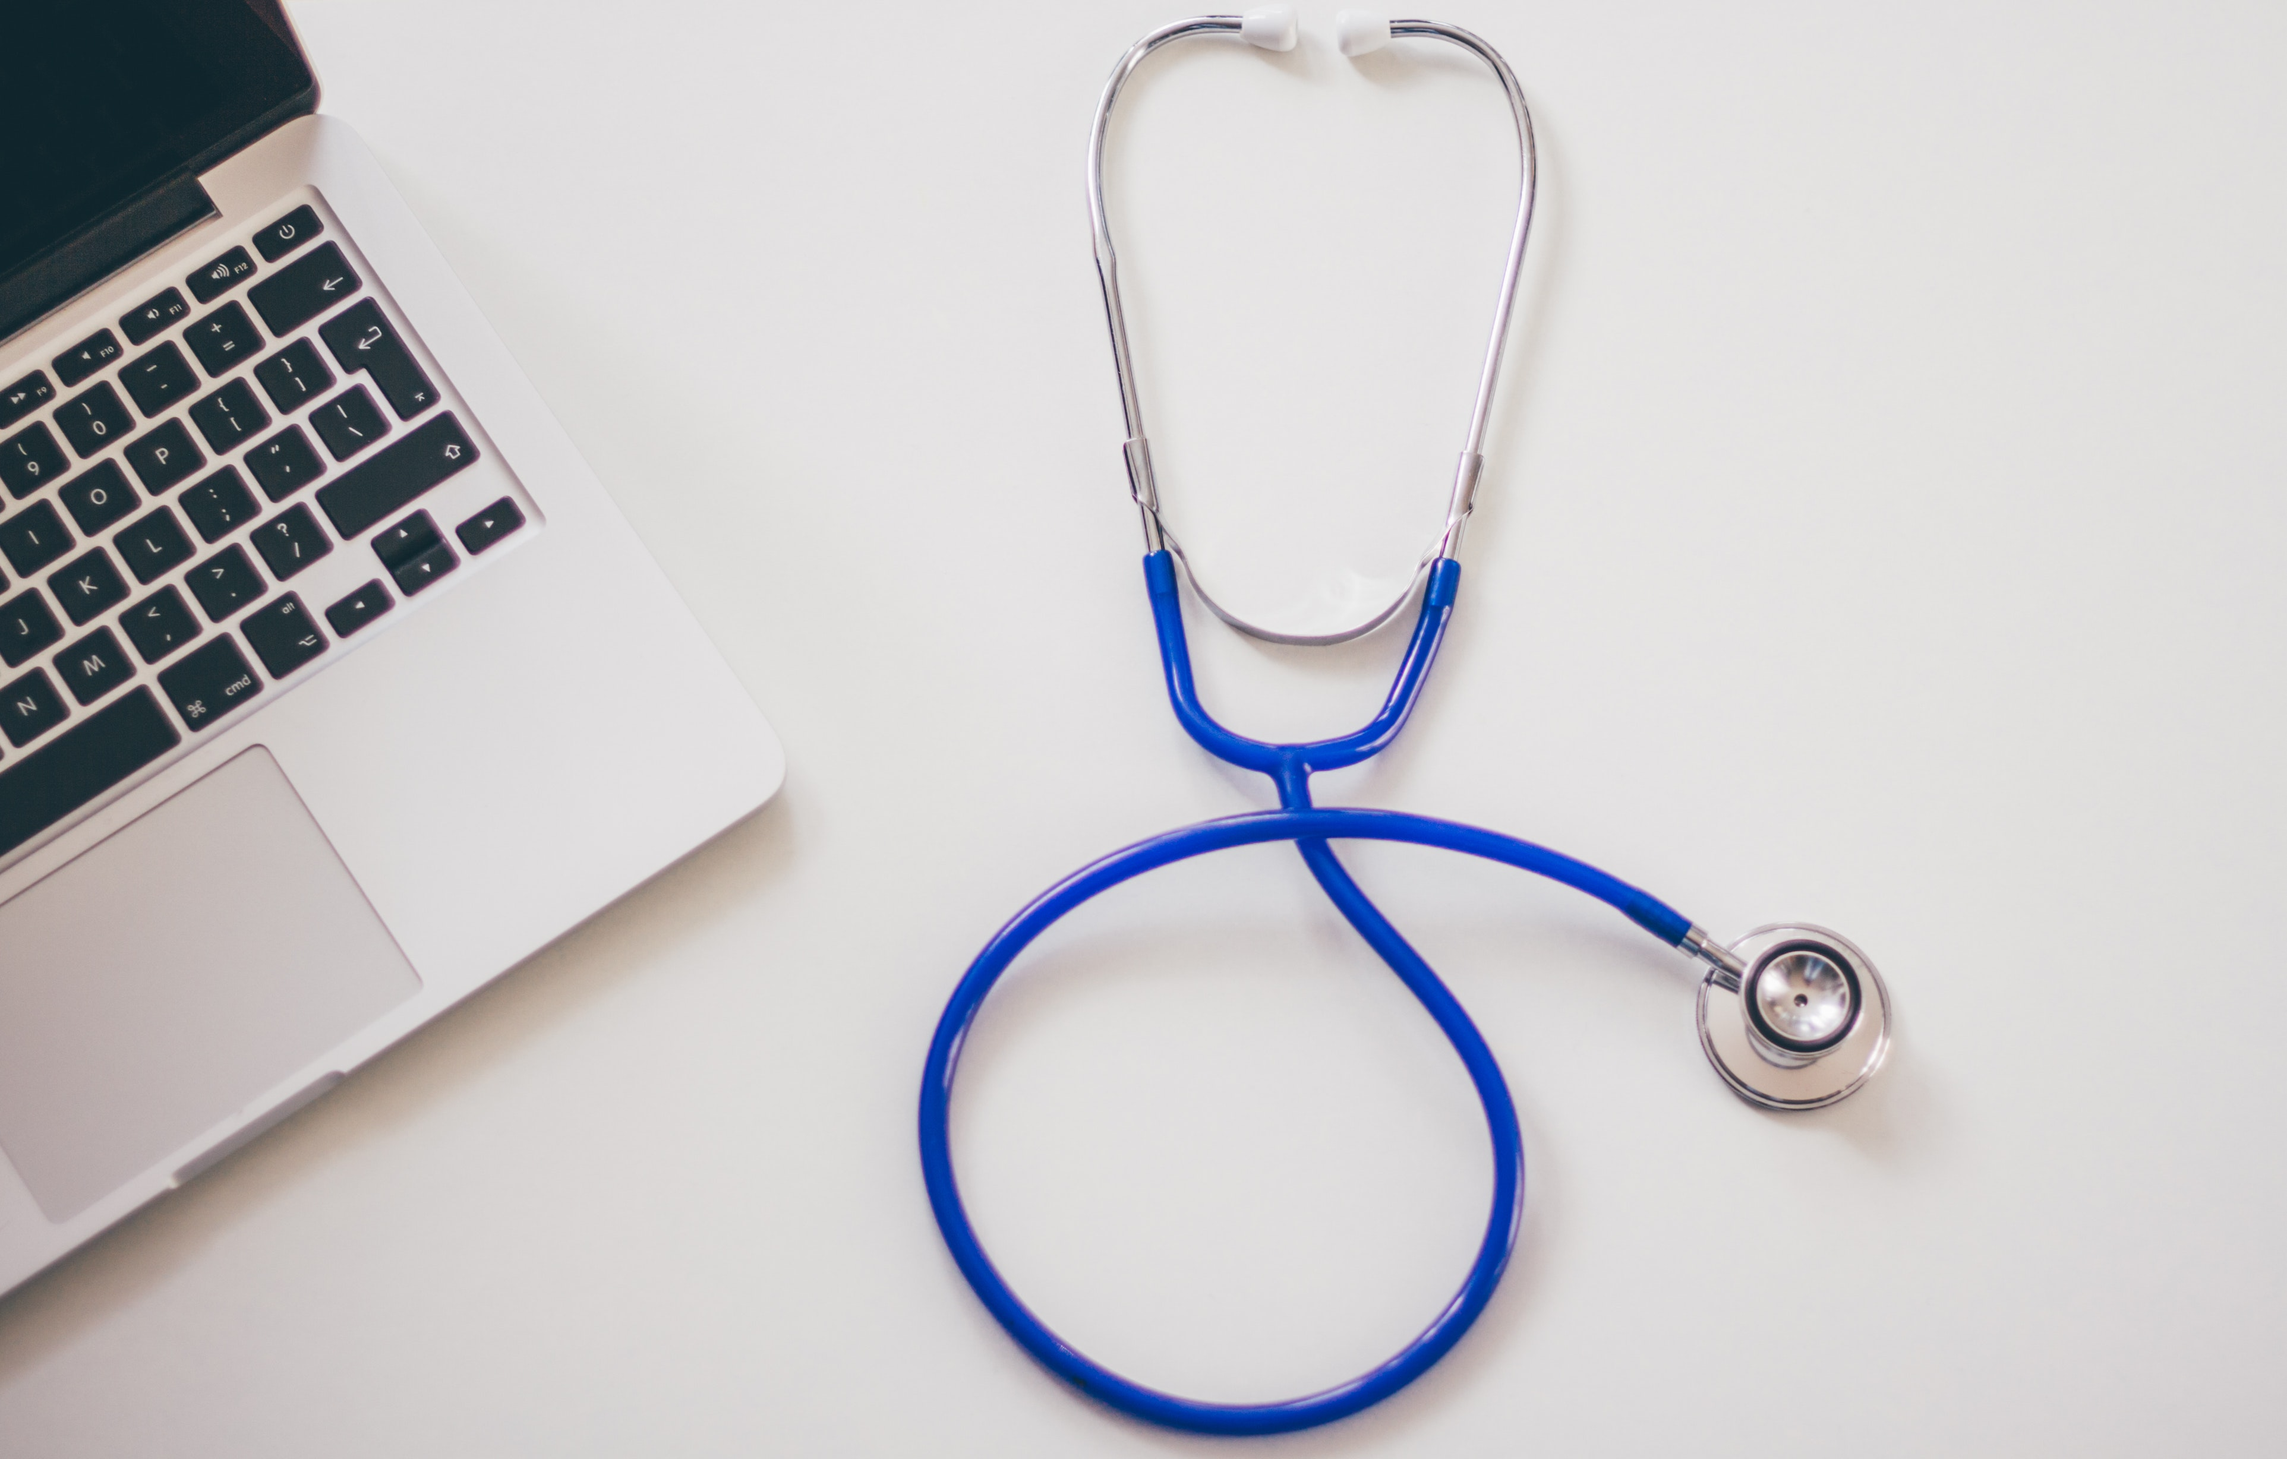
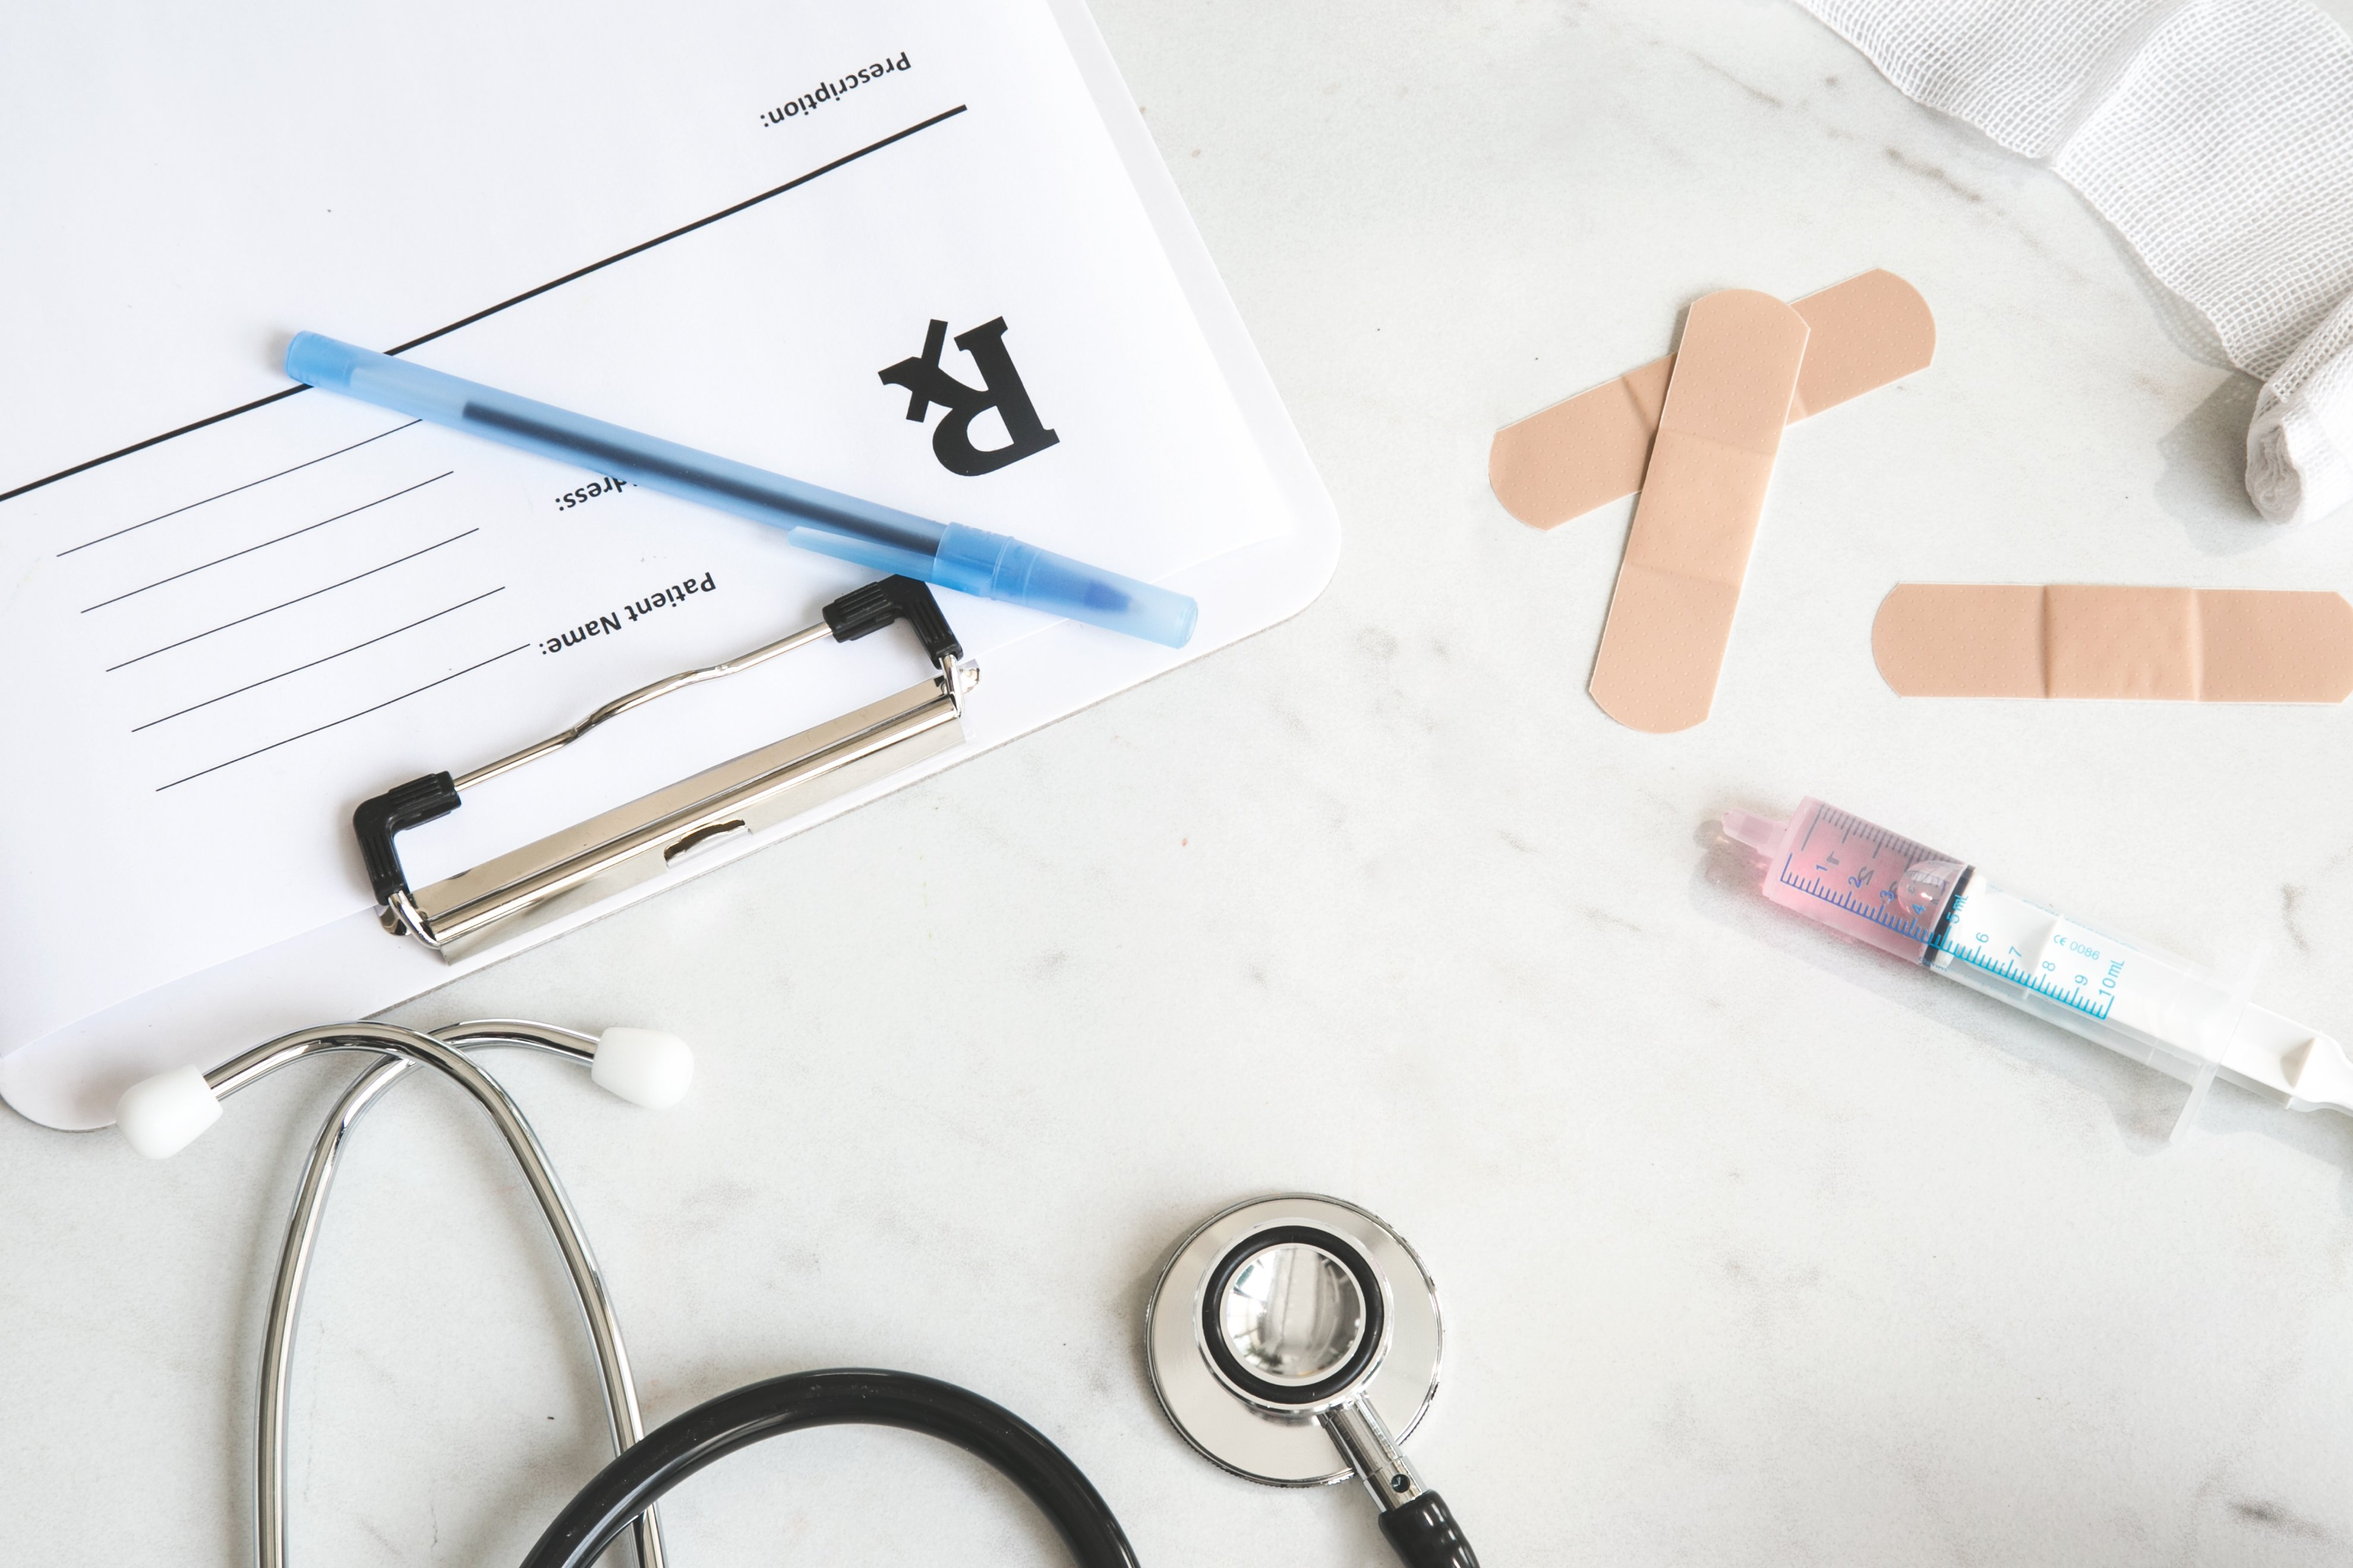
Change main photo (can change optional), styles - Work in progress

diff --git a/landingpage_pediatric/styles/styles.css b/landingpage_pediatric/styles/styles.css
@@ -8,46 +8,34 @@ body .navigation-top {
   background-color: #00aeef;
   display: flex;
 }
-body .navigation-top div:first-child {
-  width: 75%;
+body .navigation-top div {
   text-align: center;
   padding-top: 2px;
+  width: 100%;
 }
-body .navigation-top div:first-child p,
-body .navigation-top div:first-child p:first-child {
-  display: inline-block;
+body .navigation-top div p {
+  display: block;
   margin: 0;
   color: #FFF;
   font-size: 16px;
 }
-body .navigation-top div:first-child .phone {
+body .navigation-top div .phone {
   font-weight: bold;
   padding-top: 2px;
 }
-body .navigation-top div:first-child .phone .fas.fa-phone {
+body .navigation-top div .phone .fas.fa-phone {
   padding-right: 10px;
   font-size: 14px;
 }
-body .navigation-top div:first-child .phone a {
+body .navigation-top div .phone a {
   text-decoration: none;
   color: #FFF;
 }
-body .navigation-top div:first-child .phone:hover {
+body .navigation-top div .phone:hover {
   text-decoration: underline;
 }
-body .navigation-top div:first-child .phone:active {
+body .navigation-top div .phone:active {
   text-decoration: none;
-}
-body .navigation-top div:not(:first-child) {
-  width: 20%;
-  text-align: center;
-}
-body .navigation-top div:not(:first-child) .hamburger-menu {
-  display: none;
-  margin: 0;
-  padding-top: 10px;
-  font-size: 24px;
-  color: #FFF;
 }
 body .mobile-menu {
   display: none;
@@ -76,7 +64,7 @@ body .mobile-menu-scrolled {
   right: 0;
 }
 body .photo1 {
-  background-image: url("../assets/photos/photo1.jpg");
+  background-image: url("../assets/photos/photo2.jpg");
   background-size: cover;
   background-repeat: no-repeat;
   background-attachment: fixed;
@@ -98,7 +86,7 @@ body .contact div .photo-me {
   background-size: 100%;
   width: 225px;
   height: 300px;
-  margin: 0 auto;
+  margin: 20px auto;
 }
 body .about-me div p,
 body .home_visit div p,
@@ -108,6 +96,17 @@ body .contact div p {
   margin: 25px auto;
   text-align: justify;
   font-size: 14px;
+}
+body .about-me div ul,
+body .home_visit div ul,
+body .services div ul,
+body .contact div ul {
+  font-size: 14px;
+  width: 75%;
+  margin: 20px auto 0;
+  padding-left: 20px;
+  list-style-type: disc;
+  text-align: justify;
 }
 body .about-me div .contact_informations,
 body .home_visit div .contact_informations,
@@ -133,6 +132,8 @@ body .contact div .contact_phone a {
 body .header {
   text-align: center;
   color: #0085ef;
+  margin: 0 auto;
+  width: 80%;
 }
 body footer {
   height: 30px;
@@ -143,11 +144,14 @@ body footer {
   font-size: 0.8em;
 }
 @media screen and (min-width: 426px) {
-  body .navigation-top div:first-child {
+  body .navigation-top div {
     padding-top: 12px;
     width: 100%;
   }
-  body .navigation-top div:first-child .phone {
+  body .navigation-top div p {
+    display: inline;
+  }
+  body .navigation-top div .phone {
     margin-left: 30px;
   }
   body .navigation-top div:not(:first-child) {
@@ -175,9 +179,6 @@ body footer {
   body .navigation-menu ul li {
     width: 100%;
     cursor: pointer;
-  }
-  body .navigation-menu-scrolled {
-    position: fixed;
   }
 }
 @media screen and (min-width: 1200px) {

diff --git a/landingpage_pediatric/styles/styles.less b/landingpage_pediatric/styles/styles.less
@@ -8,12 +8,12 @@ body {
         height: 50px;
         background-color: #00aeef;
         display: flex;
-            div:first-child {
-                width: 75%;
+            div {
                 text-align: center;
                 padding-top: 2px;
-                p, p:first-child {
-                    display: inline-block;
+                width: 100%;
+                p {
+                    display: block;
                     margin: 0;
                     color: #FFF;
                     font-size: 16px;
@@ -35,17 +35,6 @@ body {
                 }
                 .phone:active {
                     text-decoration: none;
-                }
-            }
-            div:not(:first-child) {
-                width: 20%;
-                text-align: center;
-                .hamburger-menu {
-                    display: none;
-                    margin: 0;
-                    padding-top: 10px;
-                    font-size: 24px;
-                    color: #FFF;
                 }
             }
     }
@@ -76,7 +65,7 @@ body {
         right: 0;
     }
     .photo1 {
-        background-image: url("../assets/photos/photo1.jpg");
+        background-image: url("../assets/photos/photo2.jpg");
         background-size: cover;
         background-repeat: no-repeat;
         background-attachment: fixed;
@@ -95,13 +84,21 @@ body {
                 background-size: 100%;
                 width: 225px;
                 height: 300px;
-                margin: 0 auto;
+                margin: 20px auto;
             }
             p {
                 width: 80%;
                 margin: 25px auto;
                 text-align: justify;
                 font-size: 14px;
+            }
+            ul {
+                font-size: 14px;
+                width: 75%;
+                margin: 20px auto 0;
+                padding-left: 20px;
+                list-style-type: disc;
+                text-align: justify;
             }
             .contact_informations {
                 text-align: center;
@@ -120,6 +117,8 @@ body {
     .header {
         text-align: center;
         color: #0085ef;
+        margin: 0 auto;
+        width: 80%;
     }
     footer {
         height: 30px;
@@ -134,9 +133,12 @@ body {
 @media screen and (min-width: 426px) {
     body {
         .navigation-top {
-            div:first-child {
+            div {
                 padding-top: 12px;
                 width: 100%;
+                p {
+                    display: inline;
+                }
                 .phone {
                     margin-left: 30px;
                 }
@@ -170,9 +172,6 @@ body {
                     cursor: pointer;
                 }
             }
-        }
-        .navigation-menu-scrolled {
-            position: fixed;
         }
     }
 }

diff --git a/landingpage_pediatric/index/index.html b/landingpage_pediatric/index/index.html
@@ -17,18 +17,15 @@
                 <p>lek. pediatra Maciej Materek</p>
                 <p class="phone"><a href="tel:502825222"><i class="fas fa-phone"></i>+48 502 825 222</a></p>
             </div>
-            <div>
-                <p class="hamburger-menu"><i class="fas fa-bars"></i></p>
-            </div>
         </section>
-        <div class="mobile-menu navigation-menu">
+        <!-- <div class="mobile-menu navigation-menu">
             <ul>
                 <li id="about_me">O mnie</li>
                 <li id="home_visit">Wizyty domowe</li>
                 <li id="services">Świadczenia</li>
                 <li id="contact">Kontakt</li>
             </ul>
-        </div>
+        </div> -->
         <section class="photo1"></section>
         <section class="about-me">
             <div>
@@ -59,14 +56,22 @@
         <section class="services">
             <div>
                 <h2 class="header">Świadczenia</h2>
-                <p>
+                <ul>
+                    <li>pediatryczne wizyty domowe na terenie Gdańska (7 dni w tygodniu)</li>
+                    <li>leczenie i profilaktyka dzieci i młodzieży</li>
+                    <li>porady dotyczące rozwoju, pielęgnacji, szczepień i żywienia dziecka</li>
+                    <li>skierowania do szpitala</li>
+                    <li>zwolnienia lekarskie na opiekę nad dzieckiem (ZUS-ZLA)</li>
+                    <li>zaświadczenia o stanie zdrowia dziecka</li>
+                </ul>
+                <!-- <p>
                     - pediatryczne wizyty domowe na terenie Gdańska (7 dni w tygodniu) <br/>
                     - leczenie i profilaktyka dzieci i młodzieży <br/>
                     - porady dotyczące rozwoju, pielęgnacji, szczepień i żywienia dziecka <br/>
                     - skierowania do szpitala <br/>
                     - zwolnienia lekarskie na opiekę nad dzieckiem (ZUS-ZLA) <br/>
                     - zaświadczenia o stanie zdrowia dziecka <br/>
-                </p>
+                </p> -->
             </div>
         </section>
         <section class="contact">
@@ -82,7 +87,7 @@
             </div>
         </section>
         <footer>
-            Copyright 2018 || lek. pediatra Maciek Materek
+            Copyright 2018 || lek. pediatra Maciej Materek
         </footer>
     </body>
 </html>
